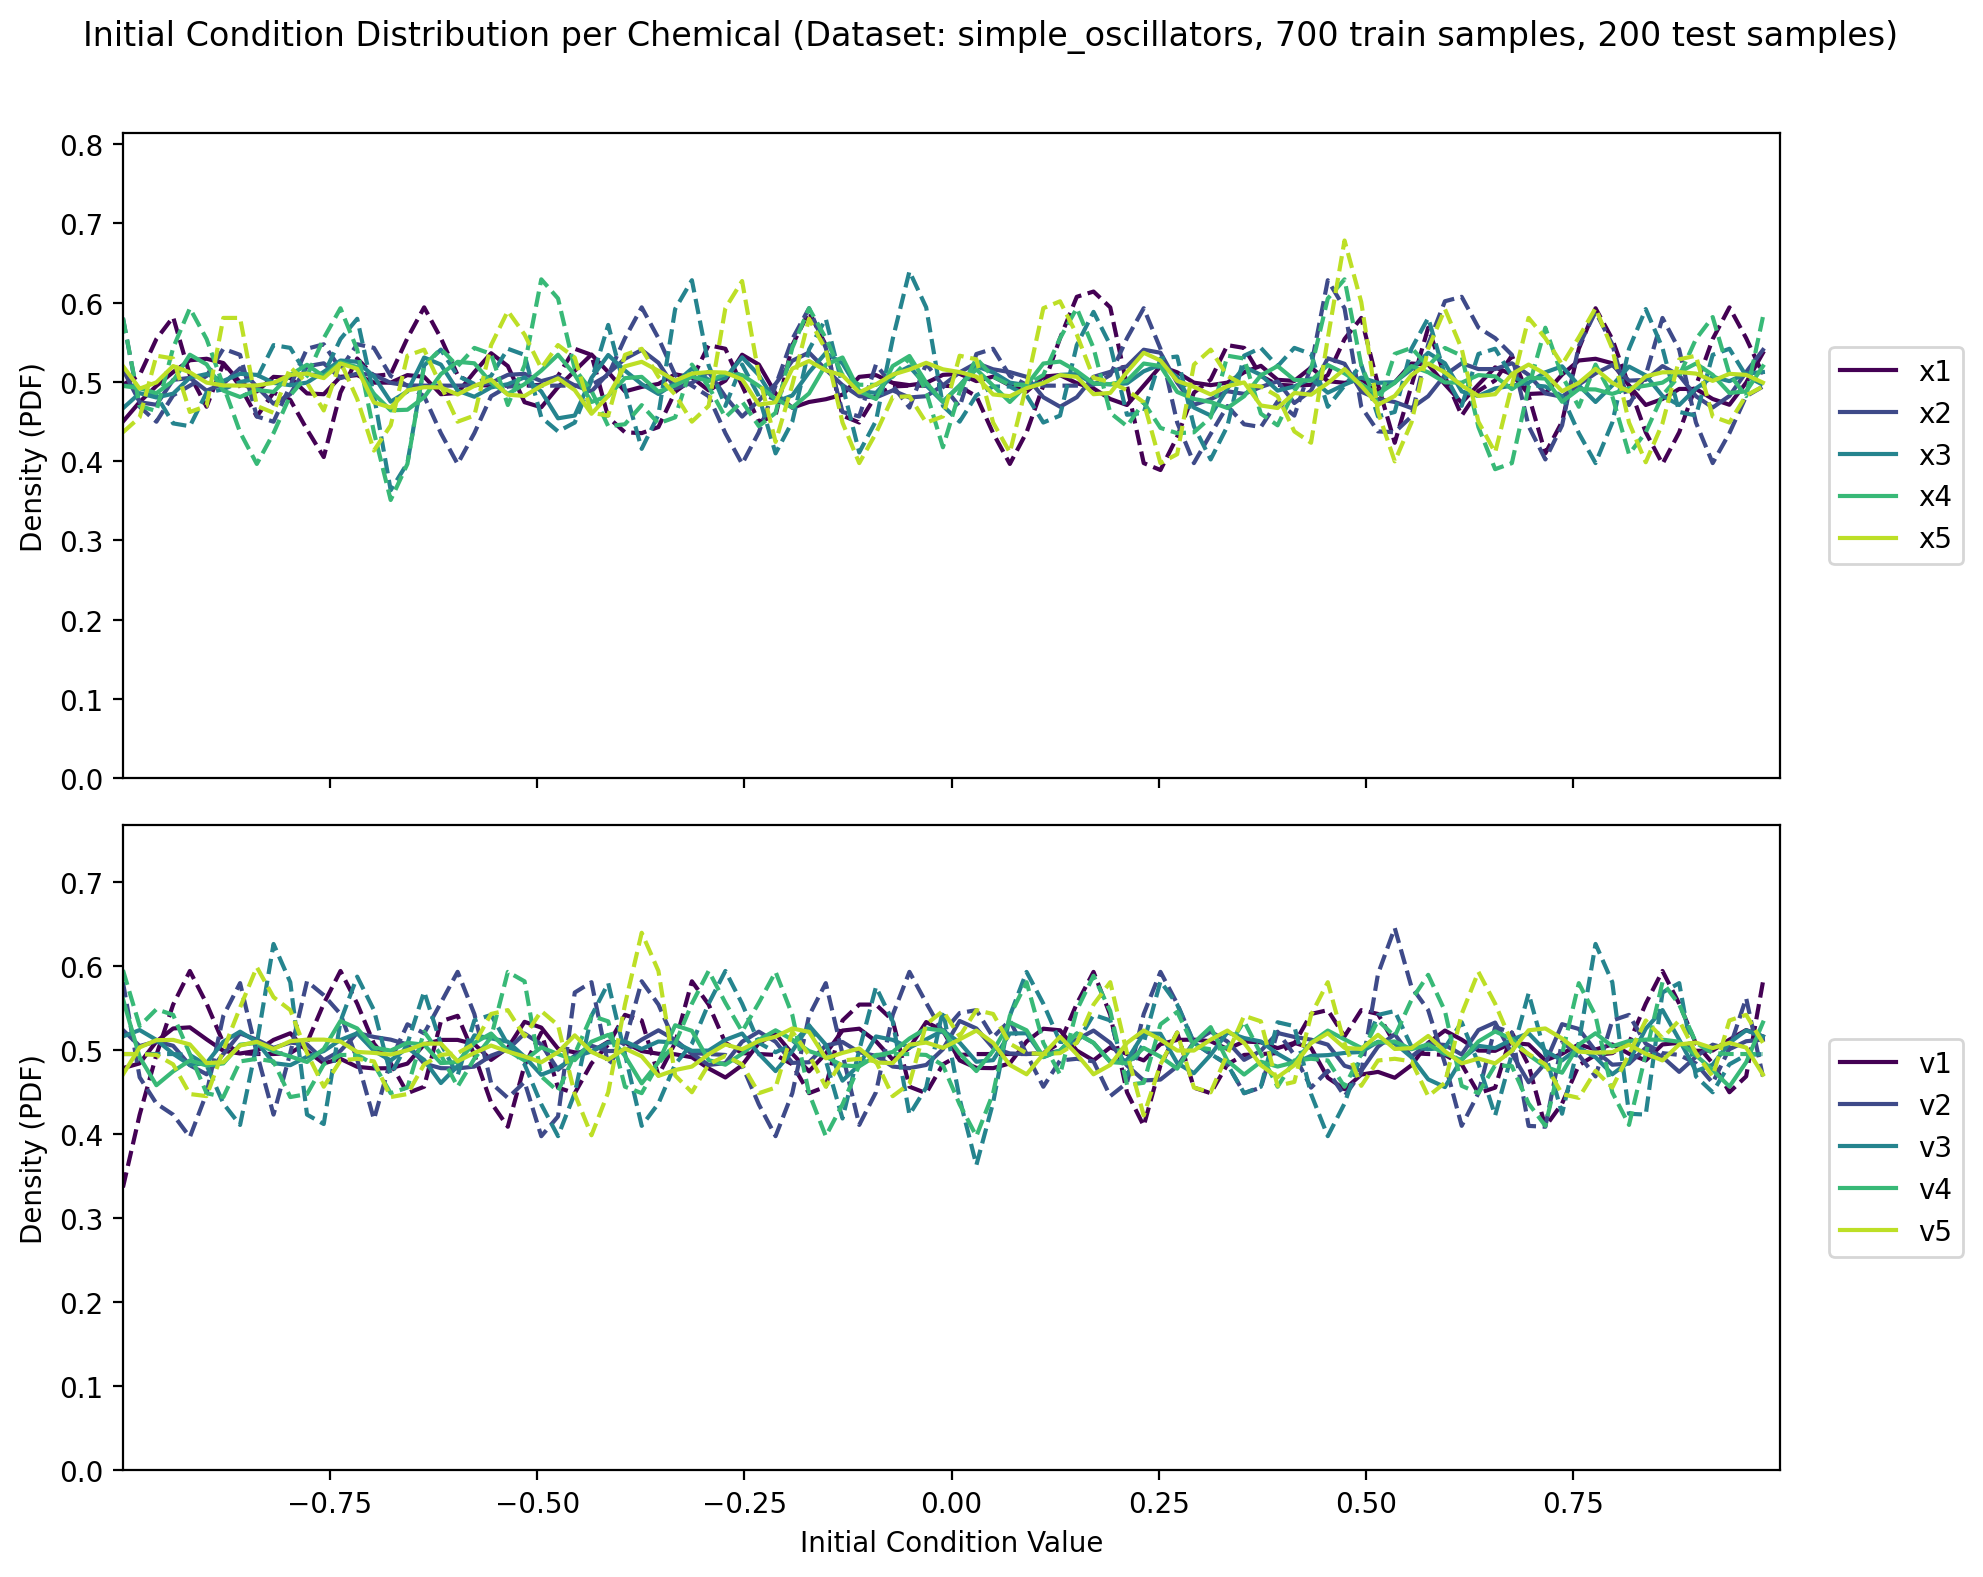
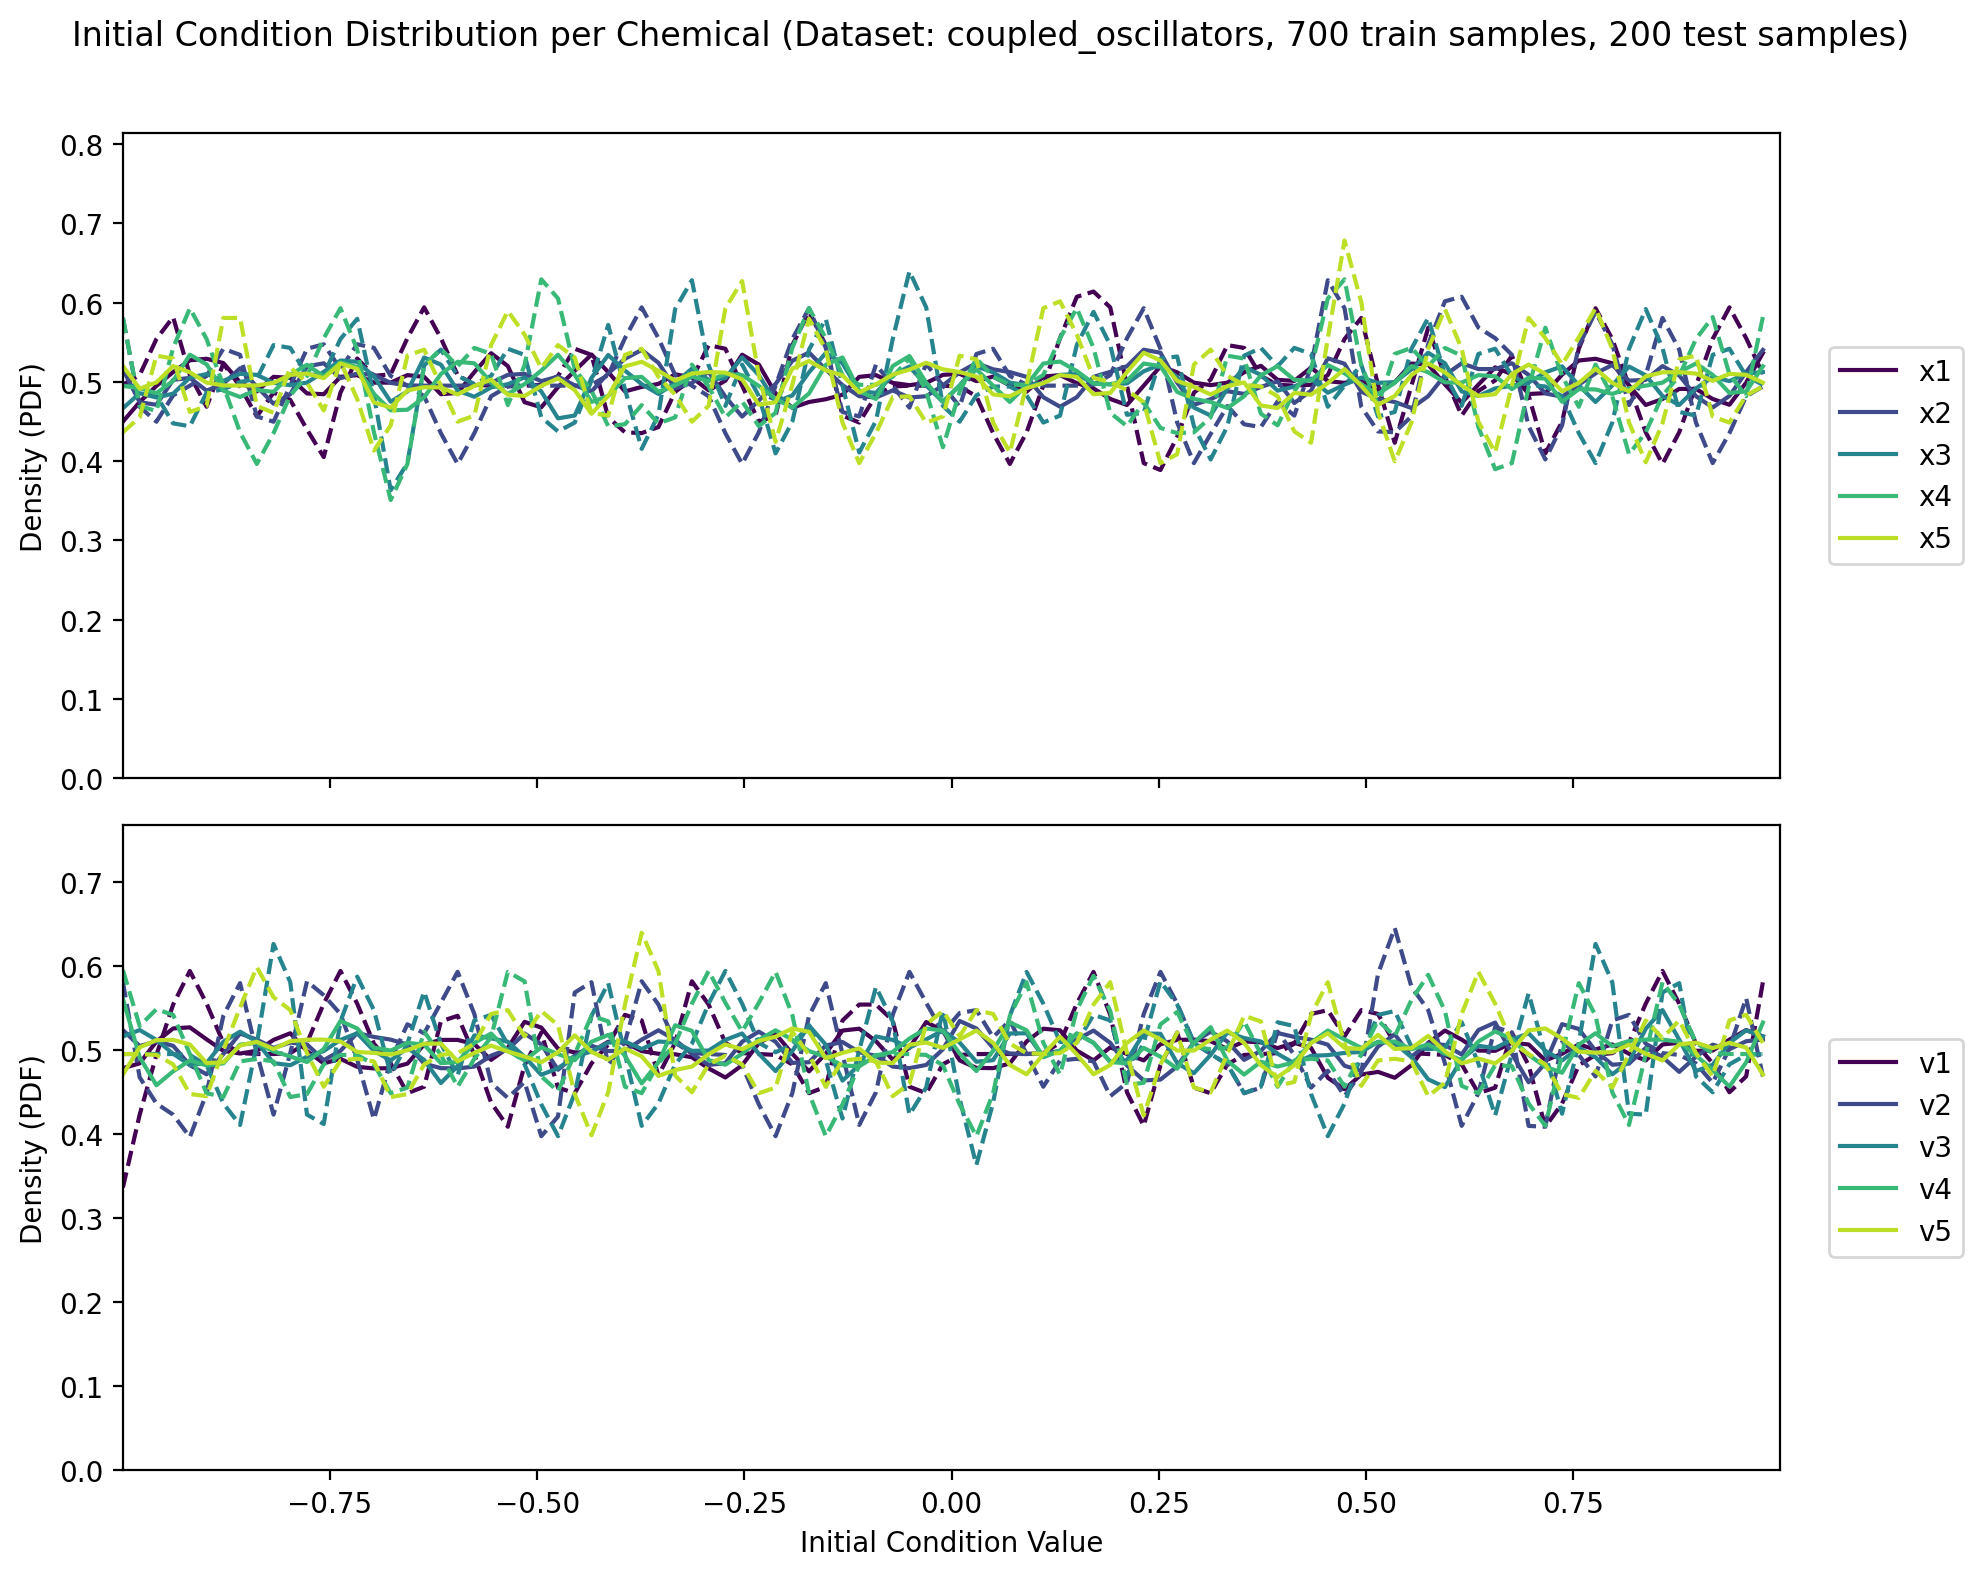
Add coupled_oscillators to data_sources

Changed region(s): [[0.0308, 0.0, 0.9536, 0.0311]]

diff --git a/datasets/_data_analysis/analyse_dataset.py b/datasets/_data_analysis/analyse_dataset.py
@@ -27,9 +27,9 @@ def main(args):
     """
     Main function to analyse the dataset. It checks the dataset and loads the data.
     """
-    log = True  # args.log
+    log = False  # args.log
     debug = False  # args.debug
-    qpp = 6
+    qpp = 5
     # Load full data
     download_data(args.dataset)
     (
@@ -45,7 +45,7 @@ def main(args):
         verbose=False,
         log=log,
         normalisation_mode="disable",
-        tolerance=1e-20,
+        tolerance=None,
     )
 
     # Plot example trajectories
@@ -122,7 +122,7 @@ if __name__ == "__main__":
     parser = ArgumentParser()
     parser.add_argument(
         "--dataset",
-        default="osu2008",
+        default="coupled_oscillators",
         type=str,
         help="Name of the dataset.",
     )
